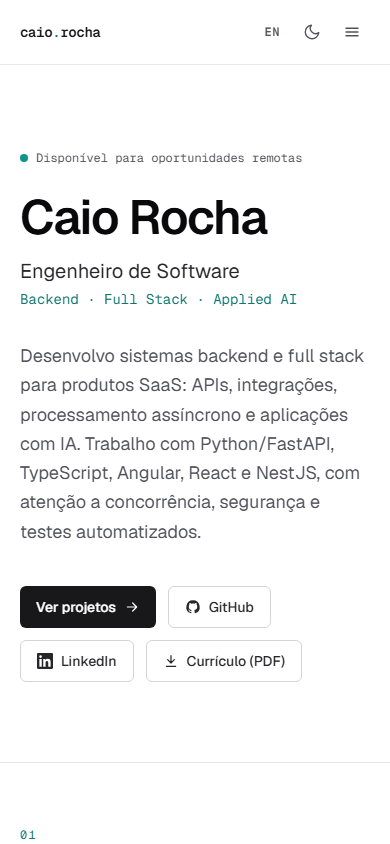
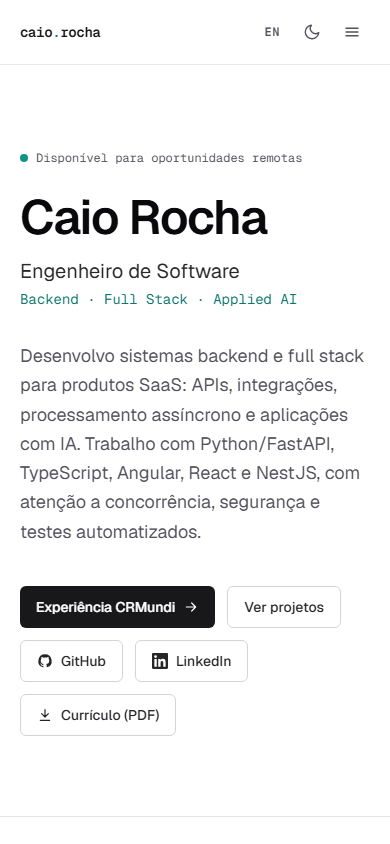
docs: document case study maintenance and refresh site screenshots

diff --git a/docs/MAINTENANCE.md b/docs/MAINTENANCE.md
@@ -2,13 +2,15 @@
 
 ## Onde fica cada conteúdo
 
-| O que mudar                                                            | Arquivo                  |
-| ---------------------------------------------------------------------- | ------------------------ |
-| Nome, título, introdução, sobre, formação, links, currículo            | `src/data/profile.ts`    |
-| Experiência profissional                                               | `src/data/experience.ts` |
-| Projetos (resumo, arquitetura, decisões, testes, limitações, capturas) | `src/data/projects.ts`   |
-| Stack por categoria                                                    | `src/data/stack.ts`      |
-| Textos da interface (menus, botões, títulos, SEO)                      | `src/data/dictionary.ts` |
+| O que mudar                                                            | Arquivo                            |
+| ---------------------------------------------------------------------- | ---------------------------------- |
+| Nome, título, introdução, sobre, formação, links, currículo            | `src/data/profile.ts`              |
+| Experiência profissional                                               | `src/data/experience.ts`           |
+| Estudo de caso CRMundi & ChatMundi (textos, fluxos, limites)           | `src/data/crmundi.ts`              |
+| Diagrama conceitual do CRMundi                                         | `src/components/SystemDiagram.tsx` |
+| Projetos (resumo, arquitetura, decisões, testes, limitações, capturas) | `src/data/projects.ts`             |
+| Stack por categoria                                                    | `src/data/stack.ts`                |
+| Textos da interface (menus, botões, títulos, SEO)                      | `src/data/dictionary.ts`           |
 
 Todo texto é um objeto `{ pt, en }`. O teste `src/test/content.test.ts` falha se algum idioma ficar vazio,
 se as chaves dos dicionários divergirem, se uma captura referenciada não existir ou se o total de testes
@@ -33,11 +35,18 @@ rode `node scripts/capture-screenshots.mjs`.
 
 ## Currículo
 
-O download de currículo está **desativado** (`resume: null` em `src/data/profile.ts`): o autor envia uma
-versão específica para cada vaga. Para reativar, coloque o PDF em `public/resume/` e defina
-`resume: '/resume/<arquivo>.pdf'`. O botão aparece automaticamente no topo da página e o teste de conteúdo
-confere se o arquivo existe. Lembre-se de ajustar o teste E2E de currículo. Atenção: um PDF publicado fica
-acessível a qualquer pessoa, inclusive telefone e outros dados de contato.
+O PDF publicado fica em `public/resume/Caio_Rocha_CV.pdf` e é referenciado em `profile.resume`. Ele é
+exportado do arquivo Word editável do autor (mantido fora do repositório). Para atualizar, substitua o PDF
+mantendo o nome; para ocultar o botão, defina `resume: null` e ajuste o teste E2E de currículo.
+Atenção: o PDF publicado fica acessível a qualquer pessoa, inclusive telefone e outros dados de contato.
+
+## Estudo de caso CRMundi
+
+Antes de alterar `src/data/crmundi.ts`, confira as evidências da auditoria e respeite os limites de
+atribuição: não publicar capturas sem autorização escrita da MetaMundi, não incluir nomes internos de tabelas,
+endpoints ou ambientes, não citar métricas de negócio e não apresentar como entregue o que estava apenas em
+develop ou em branch. O teste `e2e/crmundi.spec.ts` falha se a página ganhar imagens raster ou links para
+domínios e ambientes da empresa.
 
 ## Deploy
 

diff --git a/README.md b/README.md
@@ -11,7 +11,13 @@ Apresenta três projetos completos com estudos de caso, capturas reais, testes e
 | ------------------------------------------- | ----------------------------------------------------------------- |
 | ![Home](docs/screenshots/home-pt-light.png) | ![Home em inglês, tema escuro](docs/screenshots/home-en-dark.png) |
 
-## Projetos apresentados
+## Experiência profissional em destaque
+
+**CRMundi & ChatMundi (MetaMundi, 2025 a 2026):** estudo de caso em `/pt/experience/crmundi/` e
+`/en/experience/crmundi/`. O produto é proprietário: a página descreve apenas a contribuição do autor, usa
+diagramas conceituais originais e não publica capturas, código, nomes internos nem links de ambientes.
+
+## Projetos pessoais apresentados
 
 | Projeto     | Foco                                                      | Repositório                                                                      |
 | ----------- | --------------------------------------------------------- | -------------------------------------------------------------------------------- |
@@ -34,7 +40,7 @@ Sem backend: todo o conteúdo é estático e o contato é feito por e-mail e Lin
 ```
 src/
 ├── app/
-│   ├── [locale]/              # layout raiz por idioma, home e páginas de projeto
+│   ├── [locale]/              # layout raiz por idioma, home, páginas de projeto e experience/crmundi
 │   ├── global-not-found.tsx   # 404 bilíngue
 │   ├── sitemap.ts · robots.ts
 ├── components/                # Header, cards, links externos seguros, tema, idioma
